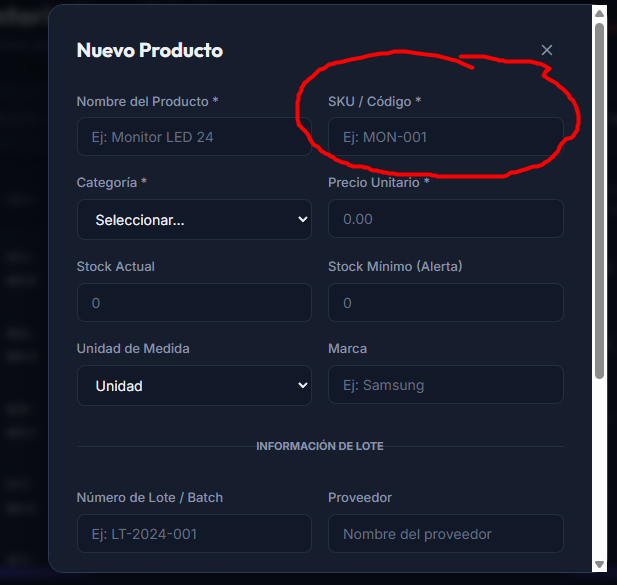
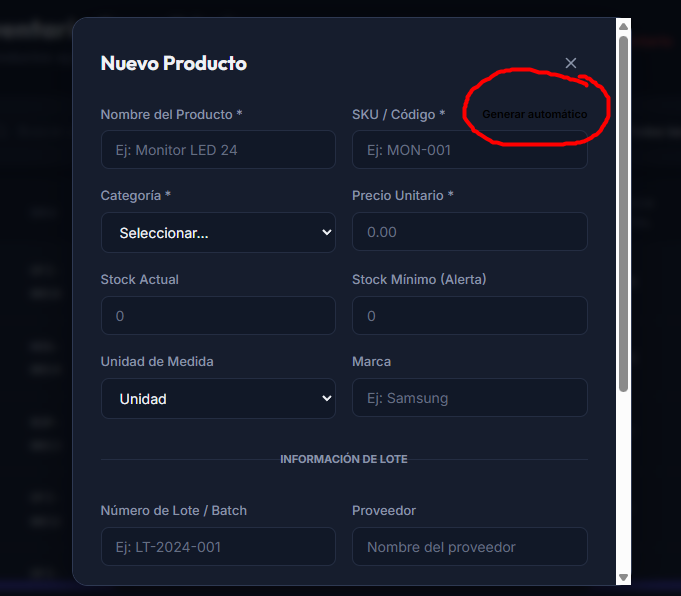
descripcion del cambio

diff --git a/src/index.css b/src/index.css
@@ -424,3 +424,32 @@ select.input { cursor: pointer; }
     width: 38px; height: 38px; 
   }
 }
+
+/* ── UTILITIES ── */
+.text-primary { color: var(--primary); }
+.text-primary-light { color: var(--primary-light); }
+.text-accent { color: var(--accent); }
+.text-success { color: var(--success); }
+.text-warning { color: var(--warning); }
+.text-danger { color: var(--danger); }
+.text-muted { color: var(--text-muted); }
+.text-subtle { color: var(--text-subtle); }
+
+.fw-400 { font-weight: 400; }
+.fw-500 { font-weight: 500; }
+.fw-600 { font-weight: 600; }
+.fw-700 { font-weight: 700; }
+.fw-800 { font-weight: 800; }
+
+.flex-center {
+  display: flex;
+  align-items: center;
+  justify-content: center;
+}
+
+.cursor-help { cursor: help; }
+.text-center { text-align: center; }
+.mt-12 { margin-top: 12px; }
+.mt-20 { margin-top: 20px; }
+.mb-16 { margin-bottom: 16px; }
+.p-40 { padding: 40px; }

diff --git a/src/pages/Inventory.css b/src/pages/Inventory.css
@@ -265,3 +265,18 @@
 .batches-table-mini tr:last-child td {
   border-bottom: none;
 }
+
+.sku-gen-btn {
+  transition: all 0.2s ease;
+  opacity: 0.9;
+}
+
+.sku-gen-btn:hover {
+  color: var(--primary-light) !important;
+  opacity: 1;
+  text-decoration: underline;
+}
+
+.sku-gen-btn:active {
+  transform: scale(0.95);
+}

diff --git a/src/pages/Inventory.jsx b/src/pages/Inventory.jsx
@@ -87,7 +87,7 @@ function ProductModal({ product, categories, onSave, onClose, calculateSuggested
                     <label className="input-label">SKU / Código *</label>
                     <button 
                       type="button" 
-                      className="text-primary fw-600" 
+                      className="text-primary fw-600 sku-gen-btn" 
                       style={{ fontSize: '11px', background: 'none', border: 'none', cursor: 'pointer', padding: 0 }}
                       onClick={() => {
                         const category = categories.find(c => c.id === form.categoryId);